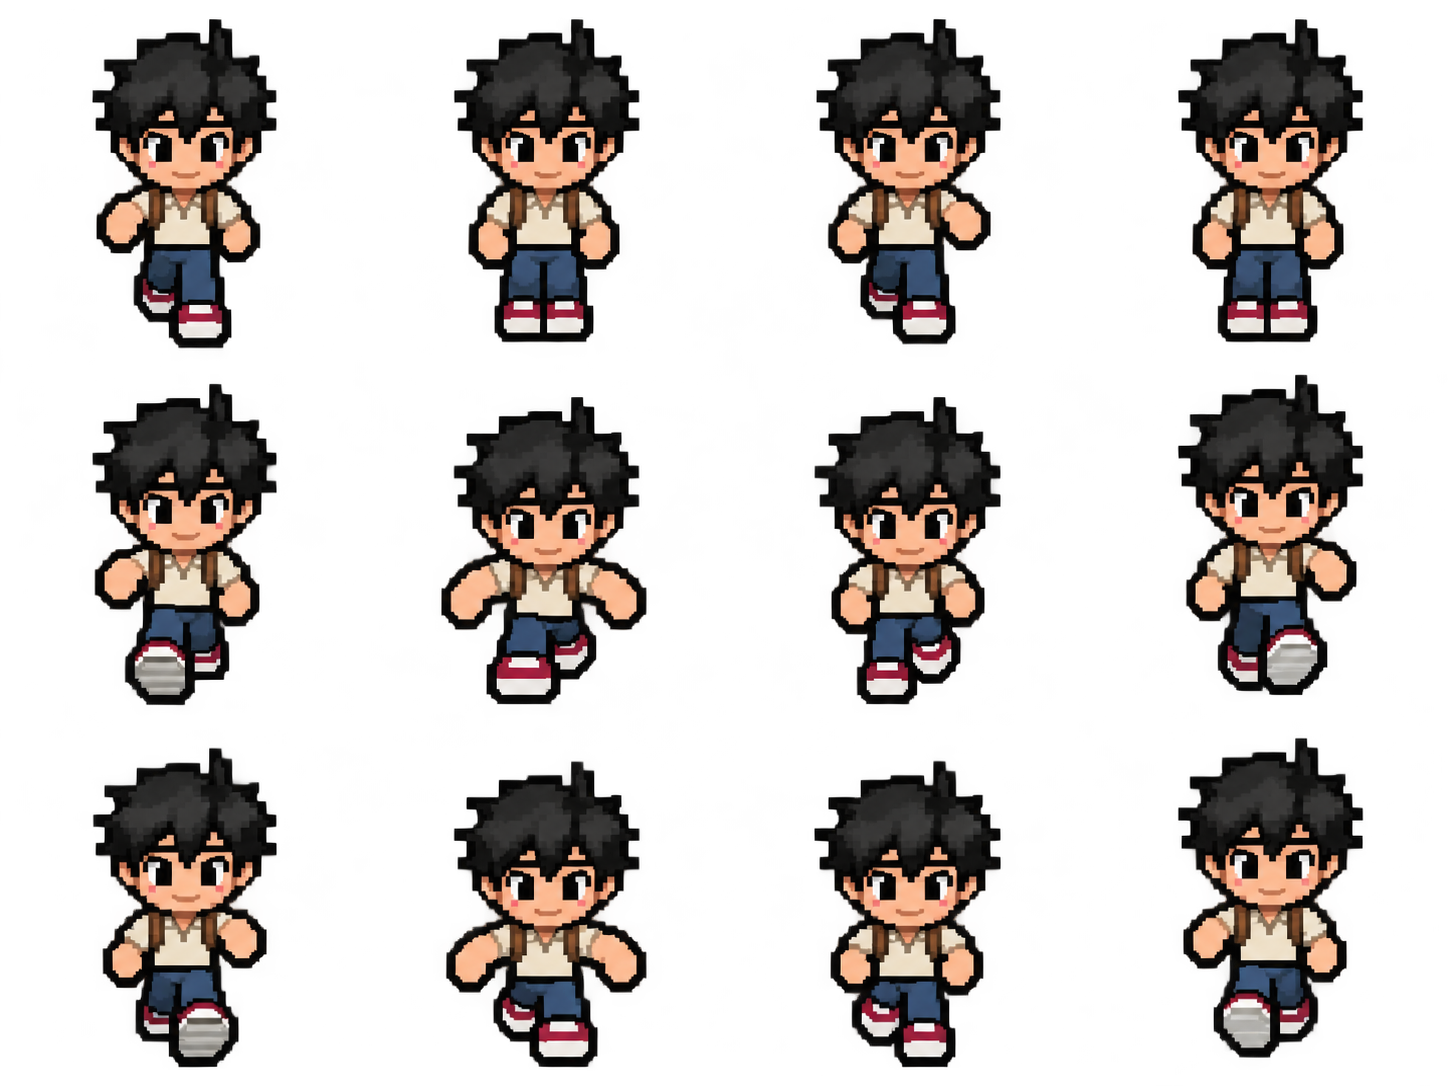
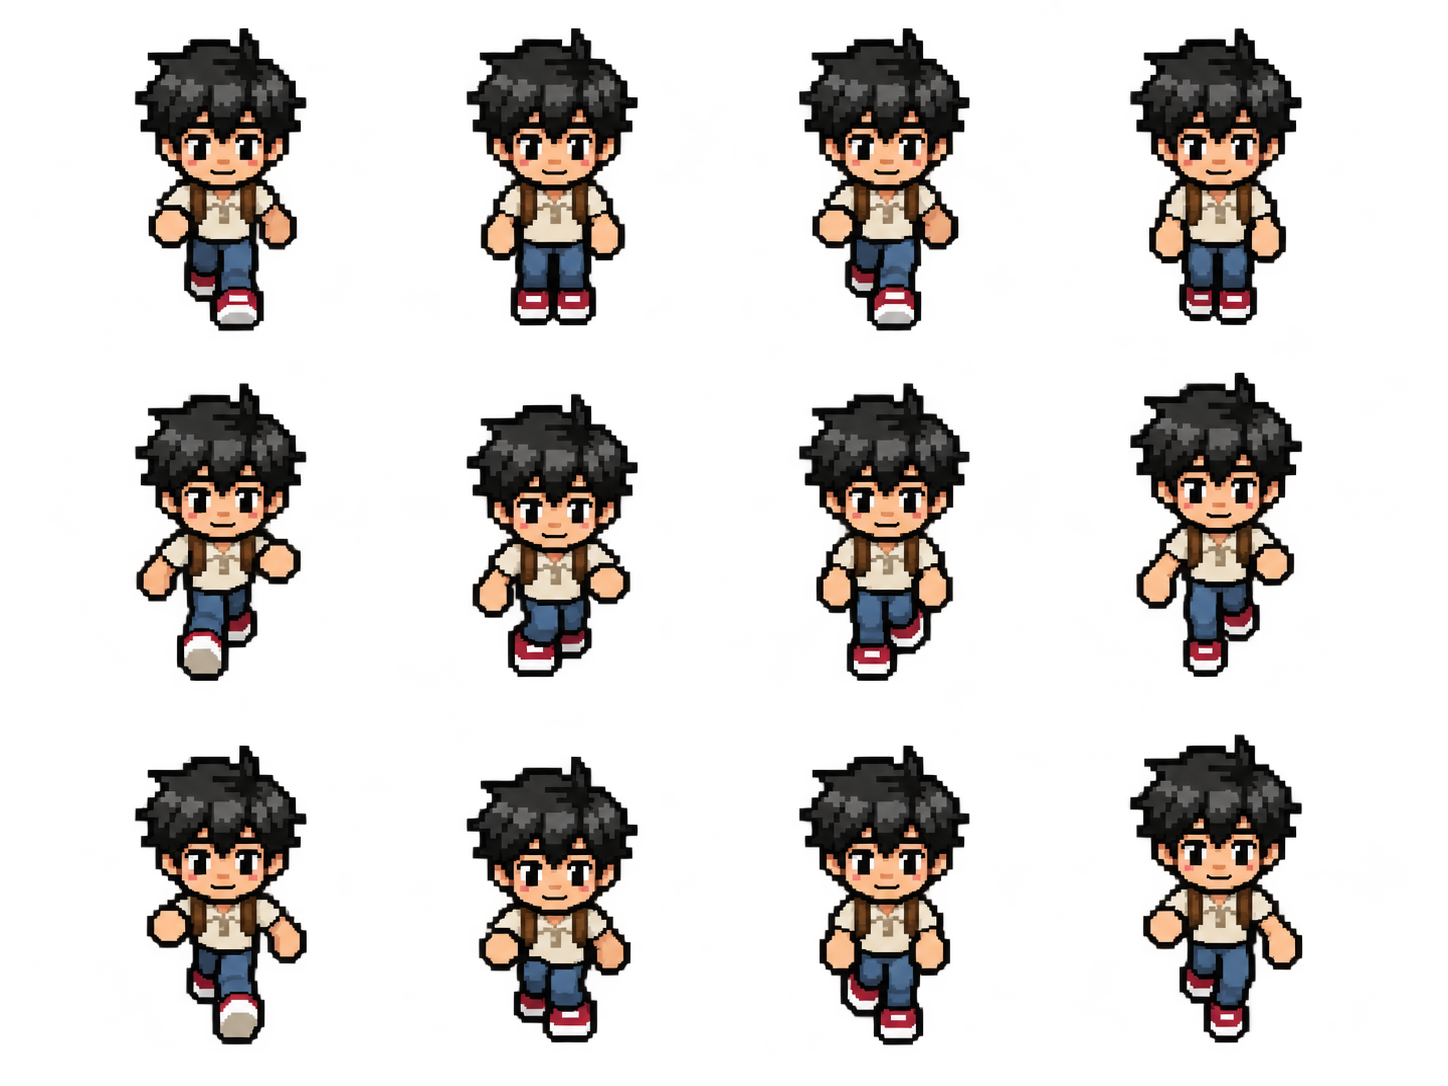
Protagonista con la camicia di lino: viste rifatte (testa uguale, niente disegni ripetuti), prova braccia snelle; si prosegue con la versione PixelLab di Jack

diff --git a/personaggi/protagonista-lino/fogli/REGISTRO.md b/personaggi/protagonista-lino/fogli/REGISTRO.md
@@ -8,3 +8,7 @@
 - 2026-11-08 · Alberto + Claude · Codex · vista del modello + `disegno.png` + il foglio a pixel del protagonista di Riccardo della stessa vista (passo per la camminata, corsa per la corsa) · giro 1, 6 fogli: `SE_`, `E_`, `NE_cammina-passo1-passo2.png` e `SE_`, `E_`, `NE_cammina-corsa1-corsa2.png`, 2 alla volta, nessun doppione (md5), 6 su 6 buoni al primo colpo. Testa della stessa taglia, pose 2 e 4 della camminata a gambe unite, nel NE la testa non cambia lato fra i due passi.
 - 2026-11-08 · Alberto + Claude · Codex · giro 2 solo camminata, 6 fogli (`S_`, `SSE_`, `ESE_`, `ENE_`, `N_`, `NNE_cammina-passo1-passo2.png`), tutti buoni al primo colpo. Con le lezioni dello scugnizzo già nel prompt: N con «STRAIGHT BACK VIEW FIRST» (va dritto, zaino al centro), ESE ed ENE con «TURN FIRST… HALFWAY» e i due fogli vicini allegati, NNE fatto per ultimo coi fogli NE e N allegati. Nessun doppione.
 - 2026-11-08 · Claude · `pixel.py`, `nomi_8pose.py`, `ancora_cicli.py`, `controllo_cicli.py`, `foglio.py` · 108 sprite. Prima prova con la tavolozza automatica (15 colori): metà erano neri dei capelli, la camicia crema diventava color pelle (sembrava a petto nudo) e le scarpe rosse marroni; rifatto con `--nuova-tavolozza --colori 12 --extra` crema #EDDFC7, ombra crema #CDBB9E, rosso scarpe #9A222F, bianco suole #F6F4F2, marrone zaino #844C31, pelle #FABB89, jeans #405C7E (misurati sui fogli). Cicli: differenza fra le due metà ≤ 1,3 px (limite 3), testa che balla ≤ 1,0 px. Passo disegnato 17 px = 0,89 unità.
+- 2026-11-09 · Alberto · prova nel Borgo · due difetti: (1) la testa cambia taglia girando (piccola in S, SSE, SE; grande in ESE, E; giusta da ENE a N); (2) disegni che si ripetono: davanti il 4 ≈ 5 e l'8 ≈ 1 (gambe 27-29 pixel diversi, braccia 20-28), di profilo le braccia quasi ferme fra 1, 2 e 3.
+- 2026-11-09 · Alberto + Claude · Codex · vista del modello (o le due vicine) + `fogli/NE_cammina-passo1-passo2.png` come metro della testa · rifatti `S_`, `SSE_`, `SE_`, `ESE_`, `E_cammina-passo1-passo2.png` con «HEAD SIZE FIRST… EXACTLY as big as the head in the LAST attached image» e «EVERY FRAME DIFFERENT… frame 4 clearly DIFFERENT from frame 1 of the next row». 5 su 5 buoni: teste uguali in tutte le 9 viste, davanti 4→5 e 8→1 ora 98 pixel diversi, braccia del profilo in movimento. I vecchi in `fogli/scarti/` (`*_174937.png`). Non ritagliati in `sprite/`.
+- 2026-11-09 · Alberto + Claude · Codex · stessi allegati del SE + «SLIM LIMBS» · `provaB_SE.png`: prova con braccia e gambe snelle e mani piccole; confronto `design/lino_snello_AB.png`. Più da ragazzo che da pupazzo, ma la testa sembra più grande.
+- 2026-11-09 · Alberto · scelta · si prosegue con la versione PixelLab di Jack (ramo `jack/banco-pixel` del gioco, `_banco/pg_normale/finale/`: 8 direzioni a 64 px, camminata a 6 disegni in S, E, N), più vicina a quello che Alberto vuole (meno pupazzo, testa uguale in tutte le viste). Questa versione Codex resta come tentativo.
